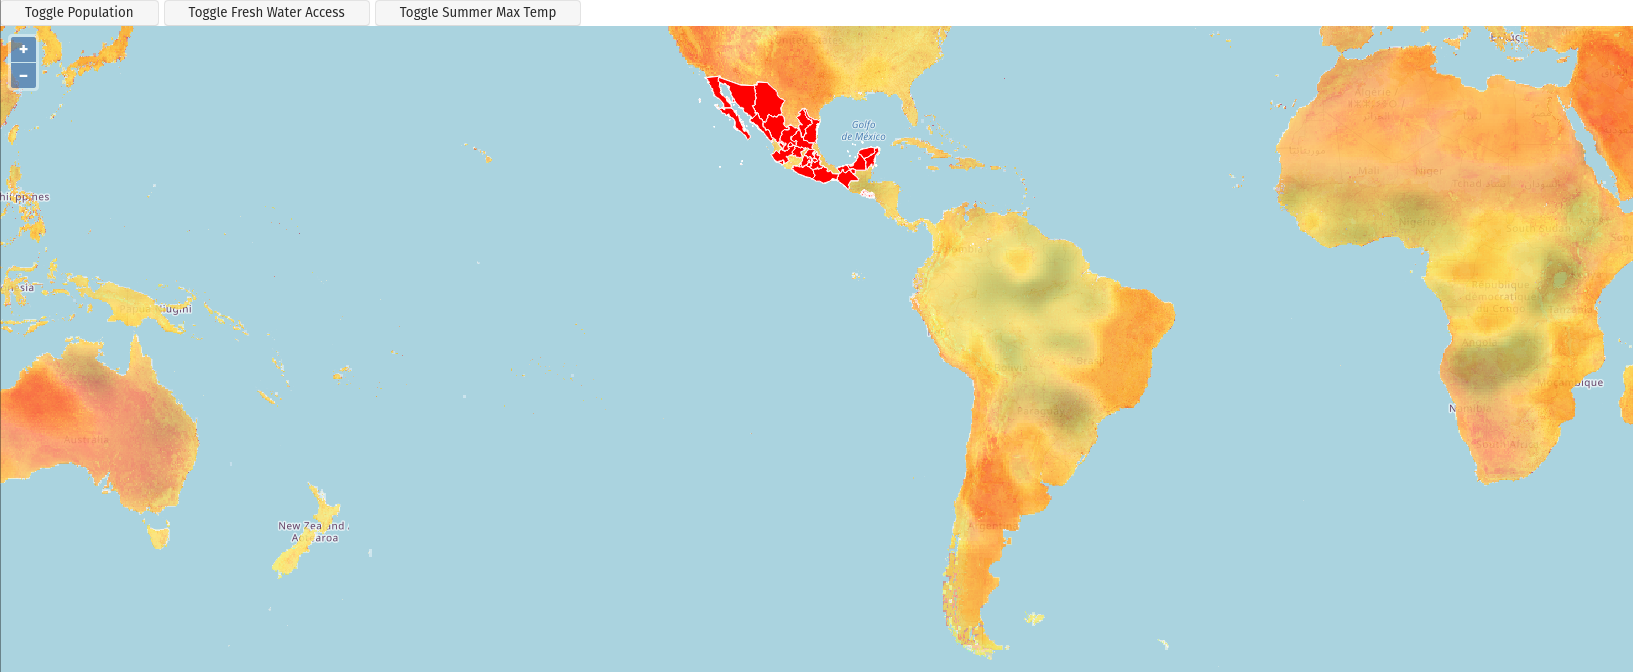
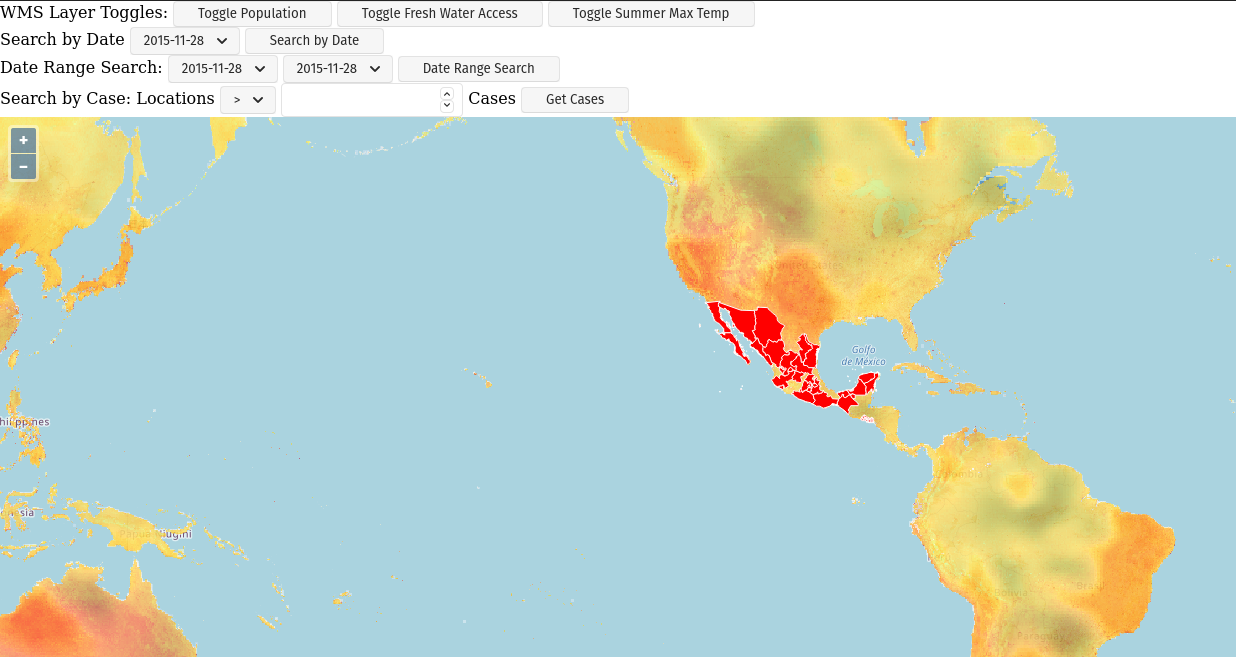
first zika-client writeup done

diff --git a/src/project-requirements/zika-client/index.rst b/src/project-requirements/zika-client/index.rst
@@ -60,6 +60,10 @@ Technical Requirements
 
 There are many ways we could go about building this project but, **at minimum**, we must follow the provided requirements.
 
+An example of what this completed project may look like:
+
+.. image:: /_static/images/project/cdc_zika_dashboard.png
+
 Primary Objectives
 ==================
 
@@ -71,32 +75,38 @@ You should **complete all primary objectives** before working on any secondary o
 
 For your primary objectives, articles have been provided to help you think about the tasks associated with the objective.
 
-1. :ref:`Add WMS Layers to the map <project_zika_client_add_wms_layers>` 
-2. :ref:`Enable toggling of WMS Layers on button click <project_zika_client_add_wms_layers>`
-3. :ref:`Make a WFS request for a specific date range and display as a layer <project_zika_client_base_wfs_request>`
-4. :ref:`Make a WFS request for a different date range and change source of layer <project_zika_client_wfs_request_on_button_click>`
-5. :ref:`Add a date range selection tool that makes a WFS request based on user input <project_zika_client_wfs_request_via_date_range_selection>`
+1. :ref:`Add WMS Layers to the map <project_zika_client_add_wms>` 
+2. :ref:`Enable toggling of WMS Layers on button click <project_zika_client_toggleable_wms_layers>`
+3. :ref:`Make an initial WFS request for a specific date and display as a layer <project_zika_client_base_wfs_request>`
+4. :ref:`Make WFS request by user selected date <project_zika_client_wfs_by_date>`
+5. :ref:`Make a WFS request for a different date range <project_zika_client_wfs_request_on_button_click>`
+6. :ref:`Make WFS request based on cases by operator <project_zika_client_wfs_request_cases_by_operator>`
 
 Secondary Objectives
 ====================
 
 For your secondary objectives no articles will be given to you. You will have to think critically and plan out the tasks needed to complete the objective. You may always reach out to the instructor for guidance but be aware that they will only provide support through discussion -- not code!
 
+- Change the opacity of the WMS layers to make them less distracting (give the user the ability to set the opacity of these layers)
+- Refactor the UI: reduce the number of buttons, and select boxes (check out the picture at the bottom of this picture for an example)
+- Styling: look into some CSS libraries to improve the general look and feel of the HTML elements
+- Move the UI elements into an OpenLayers map control
 - Zika report locations change color based on the severity of the outbreak
 - Display report data associated with a location when one is clicked on the map
+- *Animate* reports displayed by adding them to the map one-by-one on page load
+- Search the report data from the Zika Geoserver API using other terms (like city, state or number of cases)
+- Use `jQuery <https://jquery.com/>`_ or another front end framework like `React <https://reactjs.org/>`_ to abstract interactions with the DOM
+- Make your map clickable on click event you can display the underlying data of the features in the layer that was clicked
+
+An example of a refactored UI with user changeable search terms:
+
+.. image:: /_static/images/project/cdc_zika_dashboard_better_ui.png
+
+You would need to put in the proper logic to show or hide various HTML elements based on the search term and type of comparison.
 
 .. admonition:: Note
 
   You can accomplish the clicking objective several different ways. But you should have a look at the `map events <https://openlayers.org/en/latest/apidoc/module-ol_MapBrowserEvent-MapBrowserEvent.html#event:click>`_ and the `forEachFeatureAtPixel <https://openlayers.org/en/latest/apidoc/module-ol_PluggableMap-PluggableMap.html#forEachFeatureAtPixel>`_ utilities built into OpenLayers.
-
-Bonus Missions
-==============
-
-If you finish all objectives above, here are some additional features to consider. These are roughly listed in order from easiest to hardest. Feel free to pick what seems interesting to you, rather than starting from the top of the list. These are all independent of one another. 
-
-- *Animate* reports displayed by adding them to the map one-by-one on page load
-- Search the report data from the Zika Geoserver API using other terms (like city, state or number of cases)
-- Use `jQuery <https://jquery.com/>`_ or another front end framework like `React <https://reactjs.org/>`_ to abstract interactions with the DOM
 
 Turning in Your Work
 ====================

diff --git a/src/project-requirements/zika-client/tasks/wfs-request-via-date-range-selection.rst b/src/project-requirements/zika-client/tasks/wfs-request-via-date-range-selection.rst
@@ -1,15 +1,33 @@
-.. _project_zika_client_wfs_request_via_date_range_selection:
+.. _project_zika_client_wfs_request_cases_by_operator:
 
-=======================================
-WFS Request via User provide Date Range
-=======================================
+======================================================
+WFS Request via User Provided Operator and Case Number
+======================================================
 
-For the final task we will be continuing moving forward with our WFS request.
+This final task is even more of a reach. So far we have provided the user with the ability to make a WFS request with a specific date, or a date range. What other information is available to us in geoserver?
 
-So far we have implemented a WFS request that is fired when the DOM content is loaded. We then implemented a WFS request that is fired when a button is clicked. Both of this requests require the request to have static date ranges, however it would be better to give the user the ability to provide the date ranges.
+Outside of ``report_date`` there are the following properties:
+
+- ``id``
+- ``country``
+- ``state``
+- ``cases``
+- ``geometry``
+
+``id`` and ``geometry`` are not very valuable as search parameters, however, ``cases``, ``state``, and ``country`` are viable search parameters.
+
+For this task you will need to work with the ``cases`` property and allow the user to dictate if they want to see cases that are `GreaterThan <https://openlayers.org/en/latest/apidoc/module-ol_format_filter_GreaterThan-GreaterThan.html>`_, `LessThan <https://openlayers.org/en/latest/apidoc/module-ol_format_filter_LessThan-LessThan.html>`_ or `EqualTo <https://openlayers.org/en/latest/apidoc/module-ol_format_filter_EqualTo-EqualTo.html>`_ a number of cases entered by the user.
+
+This is going to take some work on our part. We will have to provide the user with the ability to make a LessThan, GreaterThan, or EqualThan based on some input (like a select box) **AND** we will have to provide the user with the ability to provide us with a number of cases that will be used in the filter.
+
+In essence it will be similar to what we did when implementing the date range picker, but now we will be working with ``cases`` instead of ``report_dates``, and we will have to provide them two means of input for the comparison operator, and cases number.
 
 Take Inventory
 ==============
 
-- create a way for users to input two separate dates
-- change the button so that it takes the input from the user input instead of the hard coded values
+- populate a select element of options that match GreaterThan, LessThan, and EqualTo
+- create an input element for numbers where the user can enter positive integers
+- create a button for these elements
+- register an event listener for this button that will take the input from the HTML elements, craft a WFS request, fire the request, and load the returning data into the source of an existing layer
+
+This task will be difficult, but in essence the steps are very similar to the previous tasks we have completed.

diff --git a/src/project-requirements/zika-client/tasks/base-wfs-request.rst b/src/project-requirements/zika-client/tasks/base-wfs-request.rst
@@ -6,9 +6,15 @@ Base WFS Request
 
 We currently have three layers created by using WMS requests and geoserver. You have also been provided with a private geoserver that you can run locally on your machine that has data we want to include in this project by making a WFS request.
 
-With the WFS request you will need to provide two dates, a start date and an end date.
+We must configure our WFS writeFeature requests. For this first WFS request we will make a request to the property ``report_date`` and we will need to match it's value to the string date ``2015-11-28``.
 
-For this first WFS task you should load a new layer using a WFS request and the start date of ``2015-01-01`` and an end date of ``2016-01-01``.
+This will be our most involved task yet, to refresh yourself on WFS look over the `OpenLayers WFS - GetFeature Example <https://openlayers.org/en/latest/examples/vector-wfs-getfeature.html>`_.
+
+Breaking down the example they had to create a new WFS().writeGetFeature() object starting on line 50. They then had to fire the WFS request to geoserver starting on line 63. You can see they are using the response back from geoserver to add the returning features of the WFS request into the source of existing VectorLayer.
+
+.. admonition:: tip
+
+    This task may seem confusing at first, reach out to an instructor, or fellow class mate to talk it through. Work together to answer the basic questions of how the request is being built, the information the request needs, how the request is sent, how the request is unpacked and loaded into a layer.
 
 Take Inventory
 ==============
@@ -24,8 +30,12 @@ What do we need to do in order to add a new layer from a WFS request to our map?
     - featurePrefix
     - featureTypes
     - outputFormat
-    - filter: IsBetween("property_name", start_date, end_date)
+    - filter: `EqualTo <https://openlayers.org/en/latest/apidoc/module-ol_format_filter_EqualTo-EqualTo.html>`_ ("property_name", date_to_match)
 - after creating our WFS feature request we need to attach it to a network request to our local geoserver
     - it must be a POST request
     - we need to unpack the json
     - we need to add the GeoJSON to the source of the layer we created
+
+.. admonition:: tip
+
+    We will want to fire this request after our Dom Content has been loaded

diff --git a/src/project-requirements/zika-client/tasks/wfs-request-on-button-click.rst b/src/project-requirements/zika-client/tasks/wfs-request-on-button-click.rst
@@ -1,18 +1,19 @@
 .. _project_zika_client_wfs_request_on_button_click:
 
-===============================
-New WFS Request on Button Click
-===============================
+=========================
+WFS Request by Date Range
+=========================
 
-You will need to add a new button adjacent to the provided toggle buttons.
+In the previous task we let the user make a new WFS request based on entering in one date, and then we made a new filter that matched their date with a specific date in geoserver and then would render a layer based on the data for that specific date.
 
-You will need to register a new event listener on the button that will create a new WFS.getFeatures() request, and then make the request with fetch().
+Let's expand on this idea further and give the user the ability to select a range of dates, by selecting a start date, and an end date. We will then create a WFS request that will check for report_dates in that range using an `IsBetween Filter <https://openlayers.org/en/latest/apidoc/module-ol_format_filter_IsBetween-IsBetween.html>`_
 
 Take Inventory
 ==============
 
-- create new button
-- register new click event listener for the button
-- make a new WFS().getFeatures() request with the start date '2016-01-01' and the end date '2017-01-01'
+- we will need two select boxes that are filled with valid dates
+- we will need a button to send the request
+- register a new click event handler for the button
+- make a new WFS().getFeatures() request with the dates selected by the user in the select elements
 - fire a fetch() request to geoserver using the new WFS().getFeatures() request
 - load the returned data into the source of the layer created for zika reports

diff --git a/src/project-requirements/zika-client/tasks/add-wms-layer-to-map.rst b/src/project-requirements/zika-client/tasks/add-wms-layer-to-map.rst
@@ -1,4 +1,4 @@
-.. _project_zika_client_add_wms_layers:
+.. _project_zika_client_add_wms:
 
 =====================
 Add WMS Layers to Map
@@ -19,19 +19,19 @@ Take Inventory
 What do we need to do in order to add a new WMS layer to our map?
 
 - we need an Open Street Map object
-- we need to define a new Layer which needs:
+- we need to define a new Layer which needs
     - a map projection
     - a geoserver url
     - a list of layer names to load from geoserver
 - the layer needs to be added to the map
+
+For a refresher on WMS requests with OpenLayers take a look at their `TileWMS Example <https://openlayers.org/en/latest/examples/wms-tiled.html>`_
 
 Add Additional Layers
 =====================
 
 After adding the population density layer to your map you will need to add two additional layers using WMS and publicly available geoservers.
 
-You can find additional geoserver map services at the following locations:
+You can find additional geoserver map services at: https://sedac.ciesin.columbia.edu/data/sets/browse?
 
-- https://sedac.ciesin.columbia.edu/data/sets/browse?facets=data-type:map%20service
-- http://www.skylab-mobilesystems.com/en/wms_serverlist.html
-- https://freegisdata.rtwilson.com/
+There are many other WMS services you can consume online, but if you want additional WMS layers you will have to research them.

diff --git a/src/project-requirements/zika-client/tasks/wfs-request-by-specific-date.rst b/src/project-requirements/zika-client/tasks/wfs-request-by-specific-date.rst
@@ -1,0 +1,20 @@
+.. _project_zika_client_wfs_by_date:
+
+===============================
+WFS Request for a Specific Date
+===============================
+
+Our previous task made a WFS request with a hard coded date of ``2015-11-28``, we want to expand on this idea by allowing our user to choose a date with valid data and to send a new WFS request.
+
+We will have to give them the ability to choose a valid date, and we then we will need to give them the ability to request a new Zika layer from a new WFS request.
+
+Taking Inventory
+================
+
+- create an HTML select element to hold valid dates
+- populate the HTML select element with valid options representing dates
+- create an event listener that will create a new WFS request, POST it to geoserver, and finally replace the source of zika layer with the new data
+
+.. admonition:: tip
+
+    Your project came with a CSV file of valid dates. You will need to figure out how to add these dates to an HTML select element.

diff --git a/src/project-requirements/zika-client/tasks/toggleable-wms-layers.rst b/src/project-requirements/zika-client/tasks/toggleable-wms-layers.rst
@@ -1,4 +1,4 @@
-.. _project_zika_client_add_wms_layers:
+.. _project_zika_client_toggleable_wms_layers:
 
 =====================
 Toggleable WMS Layers
@@ -11,6 +11,8 @@ Viewing all three of these layers at the same time is overwhelming. Let's give a
 In the starter code of the Zika Client you will notice that three toggle buttons already exist.
 
 Your goal for this task will be to wire these buttons so that when they are clicked their associated layer's visibility is changed.
+
+You can find information on the available properties, and methods associated with a Layer object by checking the `OpenLayers Layer documentation <https://openlayers.org/en/latest/apidoc/module-ol_layer_Layer-Layer.html>`_
 
 Take Inventory
 ==============

diff --git a/src/index.rst b/src/index.rst
@@ -147,6 +147,15 @@ Studios
 
   studios/*/index
 
+Project Requirements
+--------------------
+
+.. toctree::
+   :glob:
+   :maxdepth: 1
+
+   project-requirements/*/index
+
 Installations
 -------------
 
